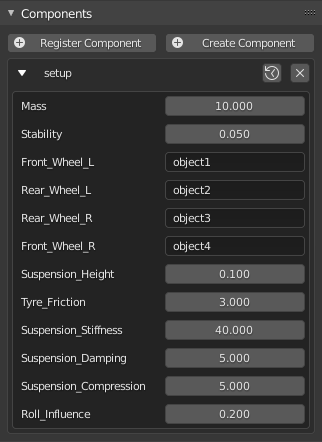
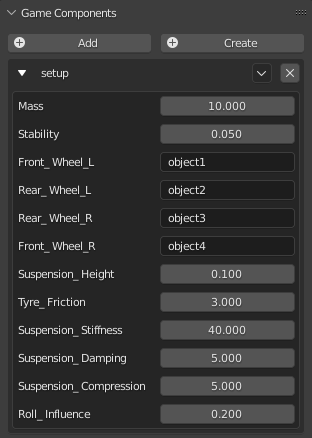
Update Python Component chapter to UPBGE 0.3

diff --git a/source/manual/python_components/introduction.rst b/source/manual/python_components/introduction.rst
@@ -103,49 +103,52 @@ Additionally, the following data (ID) property types are supported too:
 
 .. figure:: /images/Python_Components/Fig-20.png
    :align: left
-   :width: 70%
+   :width: 90%
 
    Data (ID) Property Types supported
 
 .. code-block:: python
 
-   from bge import *
-   from mathutils import *
+   import bge, bpy
    from collections import OrderedDict
 
-   class Bootstrap(KX_PythonComponent):
-      args = OrderedDict([
-           ("key", "alleycat"),
-           ("config", "//config.json"),
-           ("Action", bpy.types.Action),
-           ("Armature", bpy.types.Armature),
-           ("Camera", bpy.types.Camera),
-           ("Collection", bpy.types.Collection),
-           ("Curve", bpy.types.Curve),
-           ("Image", bpy.types.Image),
-           ("Key", bpy.types.Key),
-           ("Library", bpy.types.Library),
-           ("Light", bpy.types.Light),
-           ("Material", bpy.types.Material),
-           ("Mesh", bpy.types.Mesh),
-           ("Movie Clip", bpy.types.MovieClip),
-           ("Node Tree", bpy.types.NodeTree),
-           ("Object", bpy.types.Object),
-           ("Particle", bpy.types.ParticleSettings),
-           ("Sound", bpy.types.Sound),
-           ("Speaker", bpy.types.Speaker),
-           ("Text", bpy.types.Text),
-           ("Texture", bpy.types.Texture),
-           ("Vector Font", bpy.types.VectorFont),
-           ("Volume", bpy.types.Volume),
-           ("World", bpy.types.World),
-       ])
+   class Bootstrap(bge.types.KX_PythonComponent):
+      args = OrderedDict((
+         ("myAction", bpy.types.Action),
+         ("myArmature", bpy.types.Armature),
+         ("myCamera", bpy.types.Camera),
+         ("myCollection", bpy.types.Collection),
+         ("myCurve", bpy.types.Curve),
+         ("myImage", bpy.types.Image),
+         ("myKey", bpy.types.Key),
+         ("myLibrary", bpy.types.Library),
+         ("myLight", bpy.types.Light),
+         ("myMaterial", bpy.types.Material),
+         ("myMesh", bpy.types.Mesh),
+         ("myMovieClip", bpy.types.MovieClip),
+         ("myNodeTree", bpy.types.NodeTree),
+         ("myObject", bpy.types.Object),
+         ("myParticle", bpy.types.ParticleSettings),
+         ("mySound", bpy.types.Sound),
+         ("mySpeaker", bpy.types.Speaker),
+         ("myText", bpy.types.Text),
+         ("myTexture", bpy.types.Texture),
+         ("myVectorFont", bpy.types.VectorFont),
+         ("myVolume", bpy.types.Volume),
+         ("myWorld", bpy.types.World),
+      ))
 
-   def start(self, args):
-      print(args)
+      def start(self, args: dict):
+         self.myObject = None
+         if "myObject" in args:
+            print("myObject = ", args["myObject"])
+            self.myObject = args["myObject"]
+         else:
+            print("myObject not found!")
 
-   def update(self):
-      pass
+      def update(self) -> None:
+         if self.myObject:
+            print(self.myObject.name)
 
 
 The optional **dispose()** function is called when the component is destroyed. It is only necessary in very specific cases.
@@ -156,42 +159,42 @@ Inside of UPBGE there are several python component templates that can help us wi
 Python Component Creation
 -------------------------
 
-The Python Component panel is placed in the Logic Brick editor.
+The Python Component panel, or also called Game Component panel, is placed in the Properties editor under the Game Object Properties tab.
 
 .. figure:: /images/Python_Components/Fig-02.png
 
-   Python Component panel
+   Game Component panel
    
-You will find there the 2 ways to create a Python Component in UPBGE, **Create Component** and **Register Component**. 
+You will find there the 2 ways to make a Python Component in UPBGE, **Add** and **Create**.
 
 .. figure:: /images/Python_Components/Fig-03.png
 
-   The 2 ways to create Python Component
+   The 2 ways to make a Python Component
    
 Create Component
 ++++++++++++++++
 
-When you push over the **Create Component** button a detachable panel will appear. In that panel you can introduce the component module name and the class name, both separate by a dot.
-After entering the name and clicking on the **Create Component** button, a new python script with the name of the component's module will be created in the script editor. 
+When you push over the **Create** button a detachable panel will appear. In that panel you can introduce the component module name and the class name, both separate by a dot.
+After entering the name and clicking on the **Create** button, a new python script with the name of the component's module will be created in the script editor.
 That python script will contain an empty class which name will be the one entered previously. 
 
 .. figure:: /images/Python_Components/Fig-04.png
 
    Create Component process
 
-As the component script is developed you can click on the component reload button to see the updated component.
+As the component script is developed you can click on the component reload option to see the updated component.
 
 .. figure:: /images/Python_Components/Fig-05.png
 
-   Python Component reload button
+   Python Component reload process
 
-Register Component
-++++++++++++++++++
+Add Component
++++++++++++++
 
 This process is the opposite of the previous one. First of all, we already have a python script previously formatted as a component that can be placed either in the script editor or at the same level as the .blend file.
 
-When we click on the **Register Component** button we will have to enter the name of the python script (without the .py) followed by a dot and the class name. After accept the Python Component will be created.
+When we click on the **Add** button we will have to enter the name of the python script (without the .py) followed by a dot and the class name. After accept the Python Component will be created.
 
 .. figure:: /images/Python_Components/Fig-06.png
 
-   Register Component process
+   Add Component process
